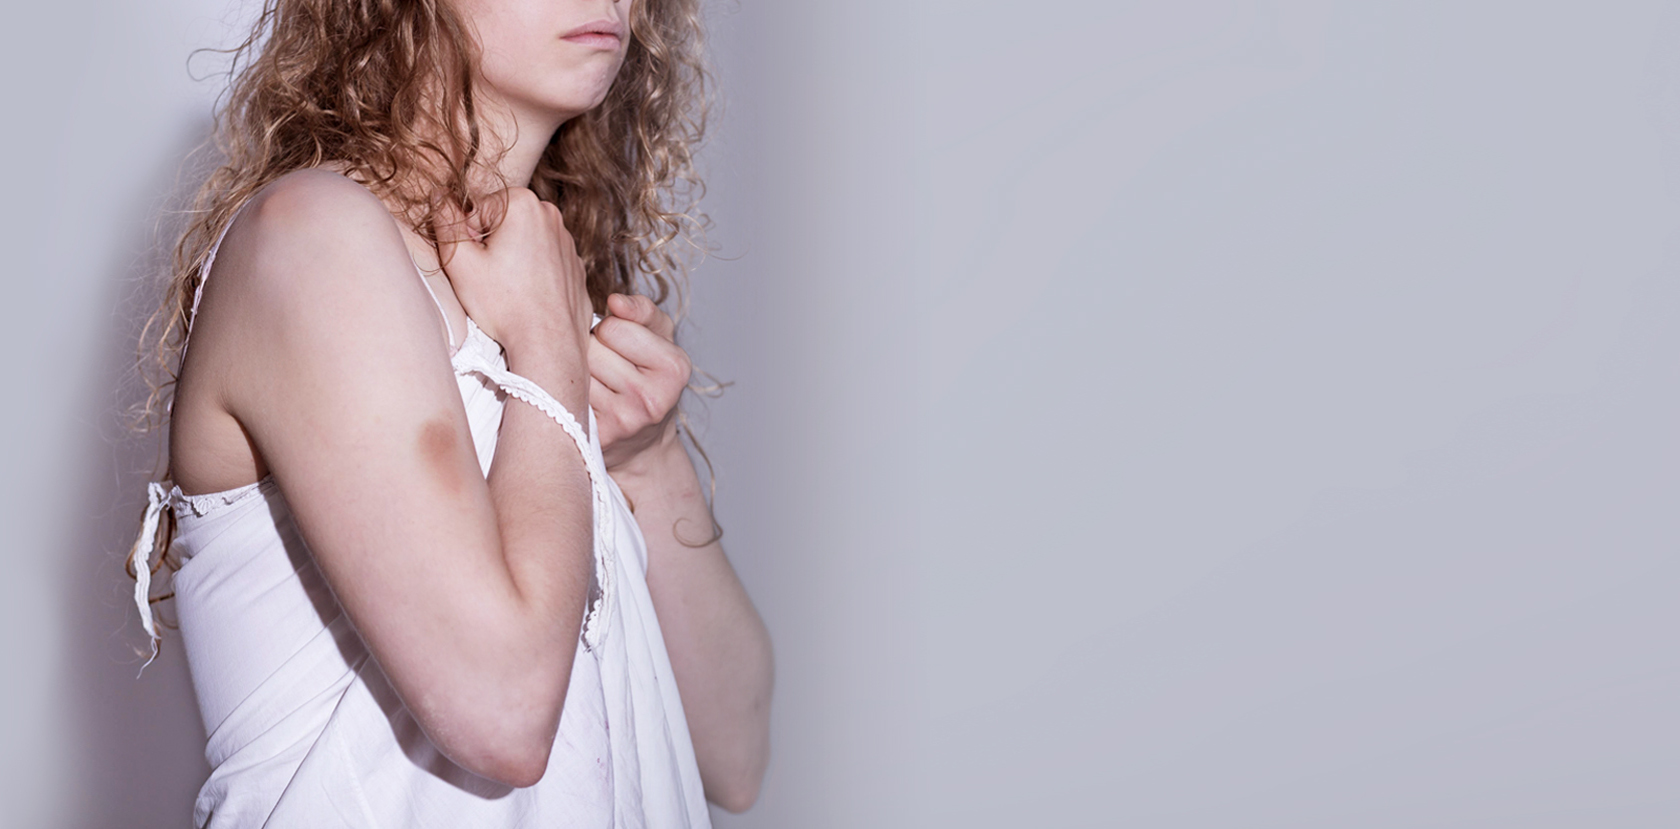
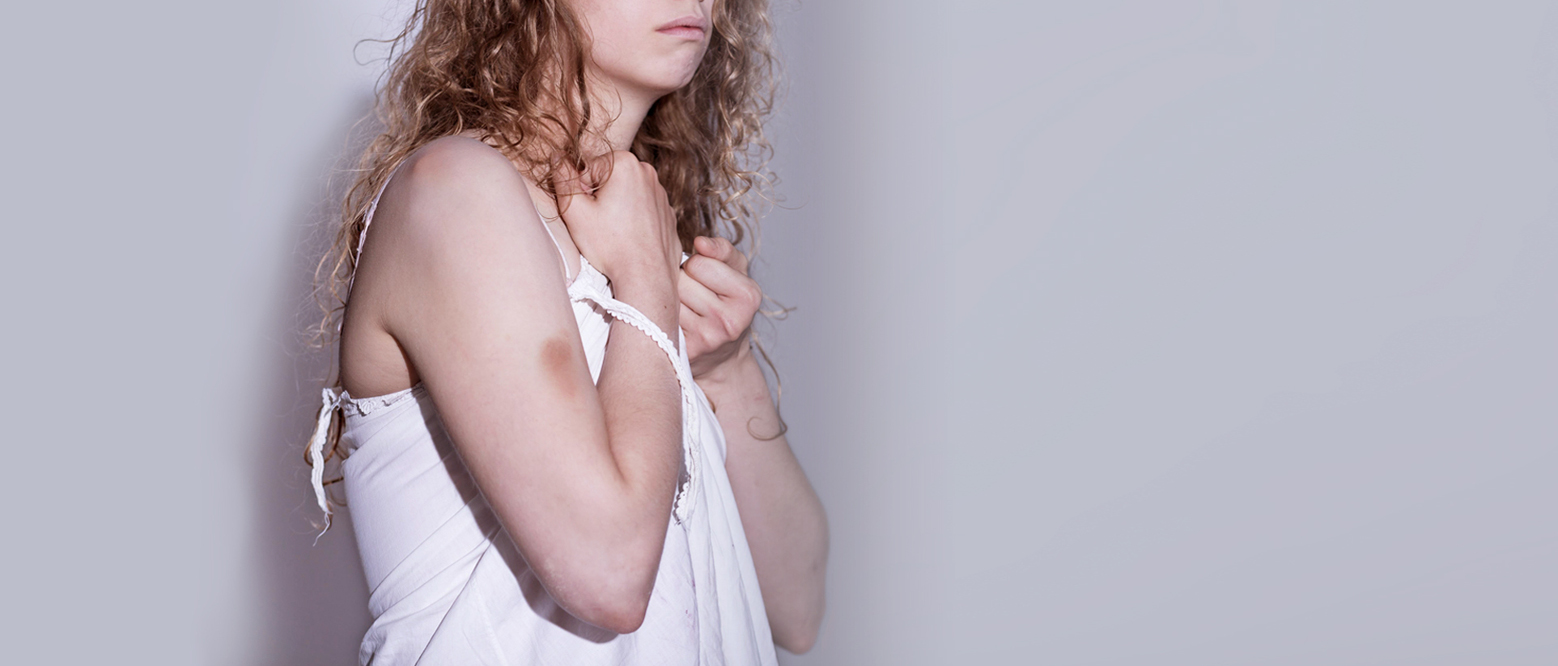
phone

diff --git a/static/css/centrum.css b/static/css/centrum.css
@@ -16,29 +16,32 @@ z-index: 9;
 height: 100%;
 }
 .cpk_img {
-padding-left: 0;
-padding-top: 10px;
+margin-left: 5%;
+margin-top: 25px;
+width:130px;
+height: 100px;
 }
 .base_page_2 {
 background-image: url('../img/cudzyslow.png');
-background-size: 60px 50px;
-margin-top: 15px;
+background-size: 60px 45px;
+margin-top: 20px;
 background-repeat: no-repeat;
 max-width: 600px;
 }
-.kolejny_raz {margin-top: 40px; padding-left: 0; font-family: PT Serif; font-size: 24px; line-height: 29px; color: #2b2f40; font-weight: bold; padding-right: 0;}
+.kolejny_raz {margin-top: 35px; padding-left: 0; font-family: PT Serif; font-size: 24px; line-height: 29px; color: #2b2f40; font-weight: bold; padding-right: 0;}
 .pomoz {margin-top: 30px; font-family: PT Sans; font-size: 20px; color: #ff5a00; background-color: #f1f1f1; border-radius: 7pt; padding: 15px;}
-.count {margin-top: 30px; font-family: PT Sans; font-size: 16px; line-height: 26px; color: #2b2f40}
-.payment {margin-top: 25px; font-family: PT Sans; padding-left: 0; padding-right: 0; text-align: center;}
-.lub_wpisz {margin-top: 40px; text-align: center; font-family: PT Sans; font-size: 16px; color: #2b2f40;}
+.count {margin-top: 15px; font-family: PT Sans; font-size: 16px; line-height: 26px; color: #2b2f40}
+.payment {font-family: PT Sans; padding-left: 0; padding-right: 0; text-align: center;}
+.lub_wpisz {margin-top: 30px; text-align: center; font-family: PT Sans; font-size: 16px; color: #2b2f40;}
 .pay_pal {
 z-index: 10;
 display: inline-block;
 border-radius: 7pt;
 border: 4px solid #e20000;
 background-color: #f1f1f1;
-width: 145px;
+width: 155px;
 height: 160px;
+margin-top: 30px;
 }
 #payment_left {
 margin-left: 0;
@@ -52,13 +55,15 @@ text-align: center;
 padding: 5%;
 }
 .inside_div_1 {
+font-family: PT Sans;
 height: 40px;
 text-align: center;
 color: #2b2f40;
 background-color: #f1f1f1;
 font-weight: bold;
 font-size: 13px;
-padding-bottom: 2%;
+padding-bottom: 20px;
+line-height: 15px;
 }
 .inside_div_2 {
 height: 55px;
@@ -68,7 +73,8 @@ color: #f1f1f1;
 background-color: #e20000;
 padding-bottom: 10px;
 padding-top: 10px;
-font-size: 13px;
+font-size: 15px;
+line-height: 19px;
 }
 #payment_right {
 float: right;
@@ -79,6 +85,8 @@ color: #f1f1f1;
 background-color: #e20000;
 border-radius: 7pt;
 padding: 12px;
+padding-left: 30px;
+padding-right: 30px;
 width: 250px;
 display: inline;
 }
@@ -86,6 +94,7 @@ display: inline;
 margin-top: 25px; 
 text-align: center;
 width: 100%;
+font-family: PT Sans;
 }
 .content_title {
 font-family: PT Serif;
@@ -110,14 +119,15 @@ padding-top: 30px;
 padding-bottom: 30px;
 }
 .button_all_2 {
-font-size: 20px;
+font-size: 25px;
 text-align: center;
 color: #f1f1f1;
 background-color: #e20000;
-border-radius: 7pt;
+border-radius: 4pt;
 font-family: PT Sans;
 padding-top: 12px;
 padding-bottom: 12px;
+width: 300px
 }
 .pasek {
 background-image: url('../img/pasek_dolny.jpg');
@@ -135,27 +145,24 @@ padding-top: 40px;
 }
 /*small Desktop*/
 @media (min-width: 992px) and (max-width: 1235px) {
-.base_page_2 {max-width: 364px; margin-top: 10px; background-size: 45px 45px;}
-.kolejny_raz {font-size: 12px; margin-top: 30px; }
-.pomoz {font-size: 12px; margin-top: 20px}
-.count {font-size: 12px; margin-top: 20px}
-.lub_wpisz {font-size: 10px; margin-top: 20px}
-.button_all {font-size: 10px; margin-top: 20px}
-.pay_pal {width: 100px; height: 120px; border: 2px solid #e20000; margin-top: 10px}
-.img_in_pay {height: 40px}
-.inside_div_1 {height: 35px; font-size: 10px;}
-.inside_div_2 {height: 43px; padding-bottom: 5px; padding-top: 5px; font-size: 10px; border-radius: 0 0 7pt 7pt}
-.last_button {width: 184px; margin-left: 85px;}
+header {background-image: url('../img/background_2.jpg'); height: 665px;}
+.base_page_2 {max-width: 450px; margin-top: 10px; background-size: 45px 45px;}
+.kolejny_raz {font-size: 17px; margin-top: 20px; line-height: 23px;}
+.pomoz {font-size: 15px; margin-top: 25px}
+.count {font-size: 15px; margin-top: 12px}
+.lub_wpisz {font-size: 13px; margin-top: 20px}
+.button_all {font-size: 13px; margin-top: 20px}
+.pay_pal {width: 120px; height: 130px; border: 2px solid #e20000; margin-top: 25px}
+.img_in_pay {height: 50px}
+.inside_div_1 {height: 35px; font-size: 12px; line-height: 15px;}
+.inside_div_2 {height: 43px; padding-top: 3px; font-size: 12px; border-radius: 0 0 7pt 7pt}
+.cpk_img {width:100px; height: 80px; margin-left: 3%}
+.button_all_2 {font-size: 20px; width: 250px}
 }
 /*for Phone and Tablets*/
 @media only screen and (max-width: 992px) {
-header {
-background-image: url('../img/background_tablet.jpg');
-background-repeat: no-repeat;
-background-position: center; 
-height: 764px;
-}
-.base_page_2 {max-width: 992px; background-image: none; padding-left: 5%; padding-right: 5%}
+header {background-image: url('../img/background_3.jpg'); height: 548px;}
+.base_page_2 {max-width: 992px; background-image: none;}
 .white_box {
 position: absolute;
 bottom: 0px;
@@ -163,30 +170,35 @@ left: 0px;
 background: rgba(241,241,241,0.8);
 padding-top: 10px;
 }
-.kolejny_raz_phone {font-family: PT Serif; font-size: 26px; color: #2b2f40; font-weight: bold; padding-top: 25px;
+.kolejny_raz_phone {font-family: PT Serif; font-size: 23px; color: #2b2f40; font-weight: bold; padding-top: 25px;
 background-image: url('../img/cudzyslow.png');
 background-size: 45px 45px;
 background-repeat: no-repeat;
-text-align: justify;
-padding-left: 5%; padding-right: 5%
+padding-left: 5%; 
+padding-right: 5%
 }
-.pomoz_phone {font-family: PT Sans; font-size: 20px; color: #ff5a00; padding-top: 25px; padding-bottom: 25px; text-align: justify; padding-left: 5%; padding-right: 5%}
+.pomoz_phone {font-family: PT Sans; font-size: 20px; color: #ff5a00; padding-top: 25px; padding-bottom: 25px; padding-left: 5%; padding-right: 5%}
 .content_title {padding-left: 5%; padding-right: 5%}
 .content-text {padding-left: 5%; padding-right: 5%}
 .count {margin-top: 15px; margin-bottom: 45px}
 .content_1 {padding-left: 0px; padding-right: 0px;}
-.last_button {margin-bottom: 35px}
+.last_button {margin-bottom: 75px}
 .button_all {padding-left: 35px; padding-right: 35px}
-.before_foot {padding-left: 5%; padding-right: 5%}
-.content_3 {padding-top: 40px; width: 100%; text-align: center}
+.before_foot {padding-left: 5%; padding-right: 5%; font-size: 20px; margin-bottom: 35px;}
+.content_3 {width: 100%; text-align: center; margin-bottom: 35px;}
 .button_all_2 {padding-left: 20px; padding-right: 20px; display: inline;}
+.pay_pal {width: 150px; height: 150px}
+.inside_div_2 {height: 50px; padding-top: 5px;}
+.inside_div_1 {height: 35px}
+.cpk_img {width:100px; height: 80px; margin-left: 0px; margin-top: 20px;}
+.content_2 {padding-left: 25px; margin-bottom: 25px;}
 }
 /*Only phone */
 @media only screen and (max-width: 544px) {
-header {background-image: url('../img/background_phone.jpg'); background-repeat: no-repeat; background-position: center; height: 667px;}
-.kolejny_raz_phone {font-size: 20px; padding-top: 20px; background-size: 30px 30px}
-.pomoz_phone {padding-top: 20px; padding-bottom: 20px; font-size: 16px; }
-.count {margin-bottom: 20px}
+header {background-image: url('../img/background_4.jpg'); height: 440px;}
+.kolejny_raz_phone {font-size: 16px; padding-top: 20px; background-size: 30px 30px}
+.pomoz_phone {padding-top: 20px; padding-bottom: 20px; font-size: 14px; }
+.count {margin-bottom: 20px; font-size: 14px;}
 .control_box {
 width: 100%;
 text-align: center;
@@ -195,14 +207,18 @@ margin-bottom: 30px;
 .content_title {font-size: 20px;}
 .before_foot {font-size: 16px; }
 .pay_pal_phone {
+font-family: PT Sans;
 display: inline-block;
-width: 145px;
+width: 160px;
 height: 160px;
 border-radius: 7pt;
 border: 4px solid #e20000;
 background-color: #f1f1f1;
 }
+.inside_div_2 {height: 55px; padding-top: 10px;}
+.inside_div_1 {height: 40px}
 .payment {display: none;}
+.cpk_img {width:50px; height: 40px;}
 }
 /* pay-pal */
 @media only screen and (min-width: 544px) {

diff --git a/centrum/templates/centrum/base.html b/centrum/templates/centrum/base.html
@@ -27,13 +27,13 @@
 				Bez prawnika nie odzyskam swojego życia.
 			</p>
 			<p class="col-sm-12 col-sm-12 hidden-md hidden-lg pomoz_phone">
-				Pomóż kobietom, które doświadczaja przemocy w domu.
+				Pomóż kobietom, które doświadczają przemocy w domu.
 				Twoje wsparcie uwolni je od życia w ciągłym strachu i bólu.
 			</p>
 		</div>
 	<!--End for phone-->	
 	<div class="col-sm-6 col-xs-12 base_page">
-		<img class="col-sm-3 col-xs-3 cpk_img" src="{% static "img/cpk_logo.png" %}" alt="cpk"/>		
+		<img class="cpk_img" src="{% static "img/cpk_logo.png" %}" alt="cpk"/>		
 	</div>
 	<div class="col-xs-12 col-sm-12 base_page_2">
 		
@@ -117,8 +117,8 @@
 		<p class="lub_wpisz">lub wpisz kwotę:</p>
 		<div class="last_button">
 				<div class="button_all">
-					<b>wpłacam
-					............ >></b>
+					wpłacam
+					............ >>
 				</div>
 		</div>		
 	</div>
@@ -143,7 +143,7 @@
 </section>
 <div class="col-md-12 pasek">
 	<div class="col-md-10 col-md-offset-1 before_foot">
-		Każda złotówka jest ważna, ponieważ zapewnia bezpieczeństwo kobiecie i jej dzieciom - ofiarom pomocy.
+		Każda złotówka jest ważna, ponieważ zapewnia bezpieczeństwo kobiecie i jej dzieciom - ofiarom przemocy.
 	</div>
 </div>
 <footer class="col-md-12">
@@ -155,7 +155,7 @@
 		nr konta w Banku PKO BP:  <b>59 1020 1156 0000 7102 0059 9241</b></br>
 		PayPal: <b>temida@cpk.org.pl</b>
 	</div>
-	<div class=" hidden-xs hidden-sm col-md-5 col-md-offset-right-1 content_3">
+	<div class=" hidden-xs hidden-sm col-md-6 content_3">
 		<a href="https://ssl.dotpay.pl/?id=59928&amp;waluta=PLN&amp;opis=Darowizna+na+rzecz+Stowarzyszenie+mali+bracia+Ubogich+-+kolacja+wigilijna+dla+samotnej+osoby+2015" target="_blank">
 			<div class="col-md-7 col-md-offset-2 content_4 button_all_2"><b>Przekaż darowiznę >></b></div>
 		</a>
